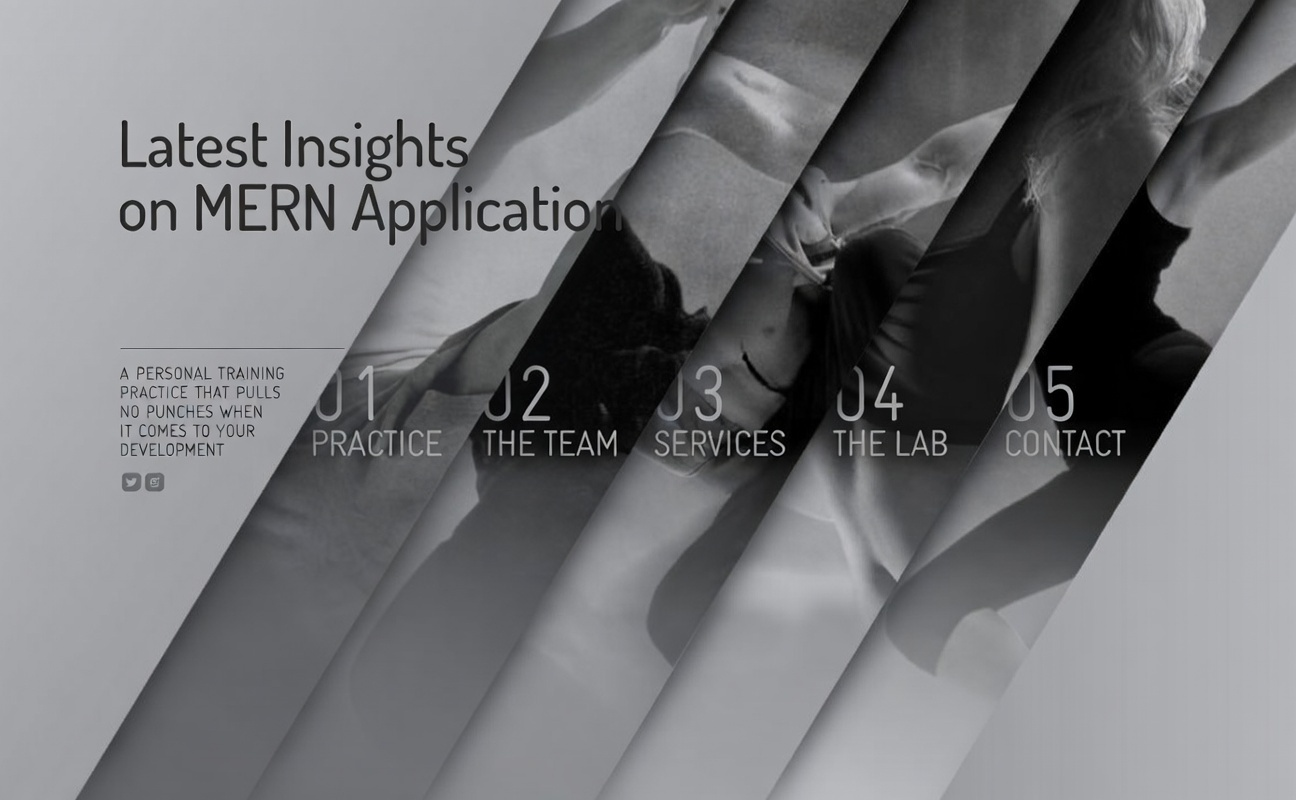
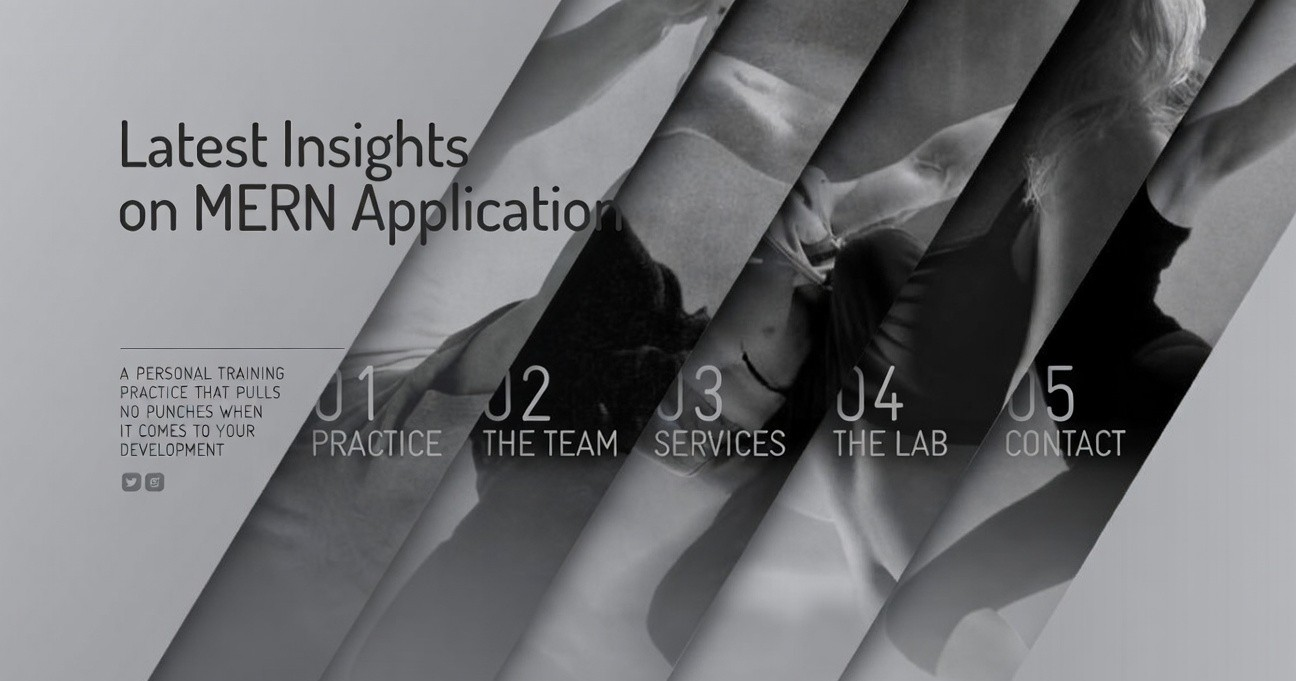
Updated ui

diff --git a/src/blog/BlogBanner.jsx b/src/blog/BlogBanner.jsx
@@ -1,6 +1,6 @@
 import React, { useState } from "react";
 import blogImage from "../assets/blog/ui.jpg"; // change image
-import { Link } from "react-router-dom";
+import { Link, Links } from "react-router-dom";
 
 const BlogBanner = () => {
   const [loaded, setLoaded] = useState(false);
@@ -28,7 +28,8 @@ const BlogBanner = () => {
               transition-all duration-500
             "
           >
-            <div
+            <Link
+              to="/blog/mern-architecture"
               className="
                 relative overflow-hidden rounded-2xl m-5
                 h-[240px] sm:h-[280px] md:h-[300px] lg:h-[320px]
@@ -44,14 +45,12 @@ const BlogBanner = () => {
                 loading="lazy"
                 onLoad={() => setLoaded(true)}
                 className={`
-                  w-full h-full object-cover rounded-xl
+                  w-full h-full object-contain rounded-xl
                   transition-all duration-700 ease-out
                   ${loaded ? "opacity-100" : "opacity-0"}
                 `}
               />
-
-              
-            </div>
+            </Link>
 
             {/* BLOG META */}
             <div className="px-6 pb-6 flex items-center justify-between text-xs sm:text-sm text-[var(--text-secondary)] opacity-70">
@@ -99,8 +98,6 @@ const BlogBanner = () => {
             </div>
           </div>
         </div>
-
-       
       </div>
     </div>
   );
